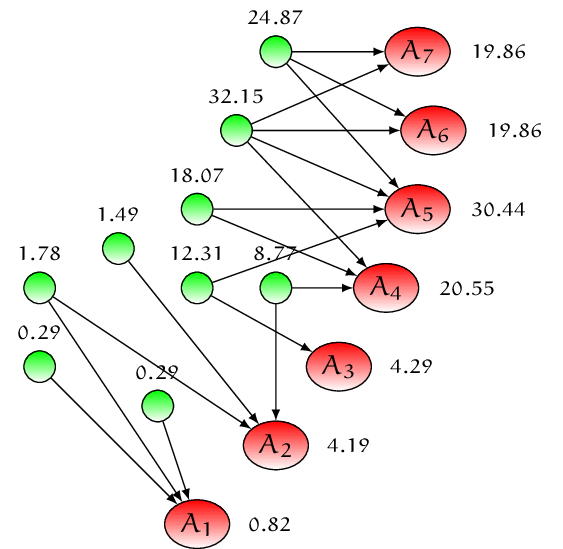
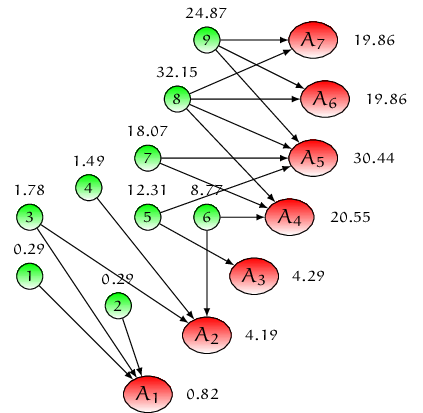
added some tables for illustration

diff --git a/_posts/2016-04-07-note22.md b/_posts/2016-04-07-note22.md
@@ -82,6 +82,21 @@ $h(p)$ stabilize, in the sense that further applications of
 the update rules do not yield essentially better relative estimates.
 
 **Example.**
+Continuing the example above,
+the following table lists the normalized hub scores of the $9$
+hub nodes  over the  first seven iterations and, in the bottom row,
+the limit values.
+
+![hubs-h]
+
+The following table lists the normalized authority scores of the $7$
+authority nodes  over the  first seven iterations and, in the bottom row,
+the limit values.
+
+![hubs-a]
+
+Eventually, the scores in this network converge to the values
+attached to the notes in this diagram.
 
 ![hubs0]
 
@@ -177,14 +192,22 @@ As in each step, the total PageRank of all nodes is maintained
 (each node splits its PageRank into equal parts and passes this on,
 nothing is lost or gained overall), there is no need for normalization.
 
-**Example.**
-
-![pagerank]
-
 After a number of steps, the PageRank values of the individual nodes 
 stabilize.  These values form an equilibrium in the sense that
 another application of the update rule will produce exactly the same
 values.
+
+**Example.**  The following graph represents
+a network of $8$ web pages with hyperlinks.
+
+![pagerank]
+
+The following table shows how the initial PageRank
+of $\frac18$ of each page is updated under six iterations
+of the basic PageRank update rule
+and, in the bottom row, the limit values.
+
+![pagerank-p]
 
 In terms of matrix algebra this effect can be described as follows.
 
@@ -221,6 +244,9 @@ with corresponding eigenvector having non-negative entries
 [synonymy]: https://en.wikipedia.org/wiki/Synonym
 [polysemy]: https://en.wikipedia.org/wiki/Polysemy
 [hubs]: /images/hubs.png
+[hubs-h]: /images/hubs-h.png
+[hubs-a]: /images/hubs-a.png
 [hubs0]: /images/hubs0.png
 [pagerank]: /images/pagerank.png
+[pagerank-p]: /images/pagerank-p.png
 [Perron-Frobenius Theorem]: https://en.wikipedia.org/wiki/Perron%E2%80%93Frobenius_theorem
